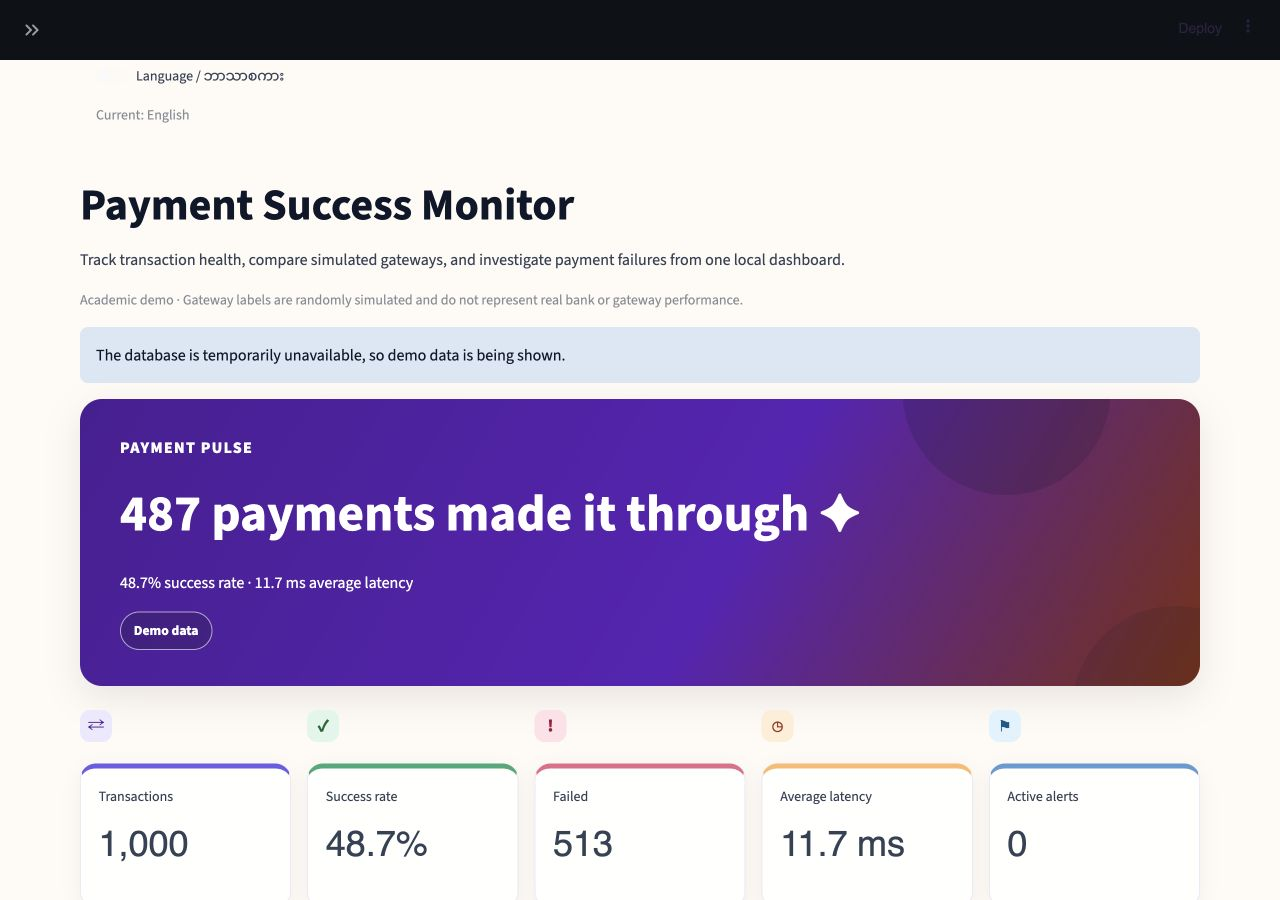
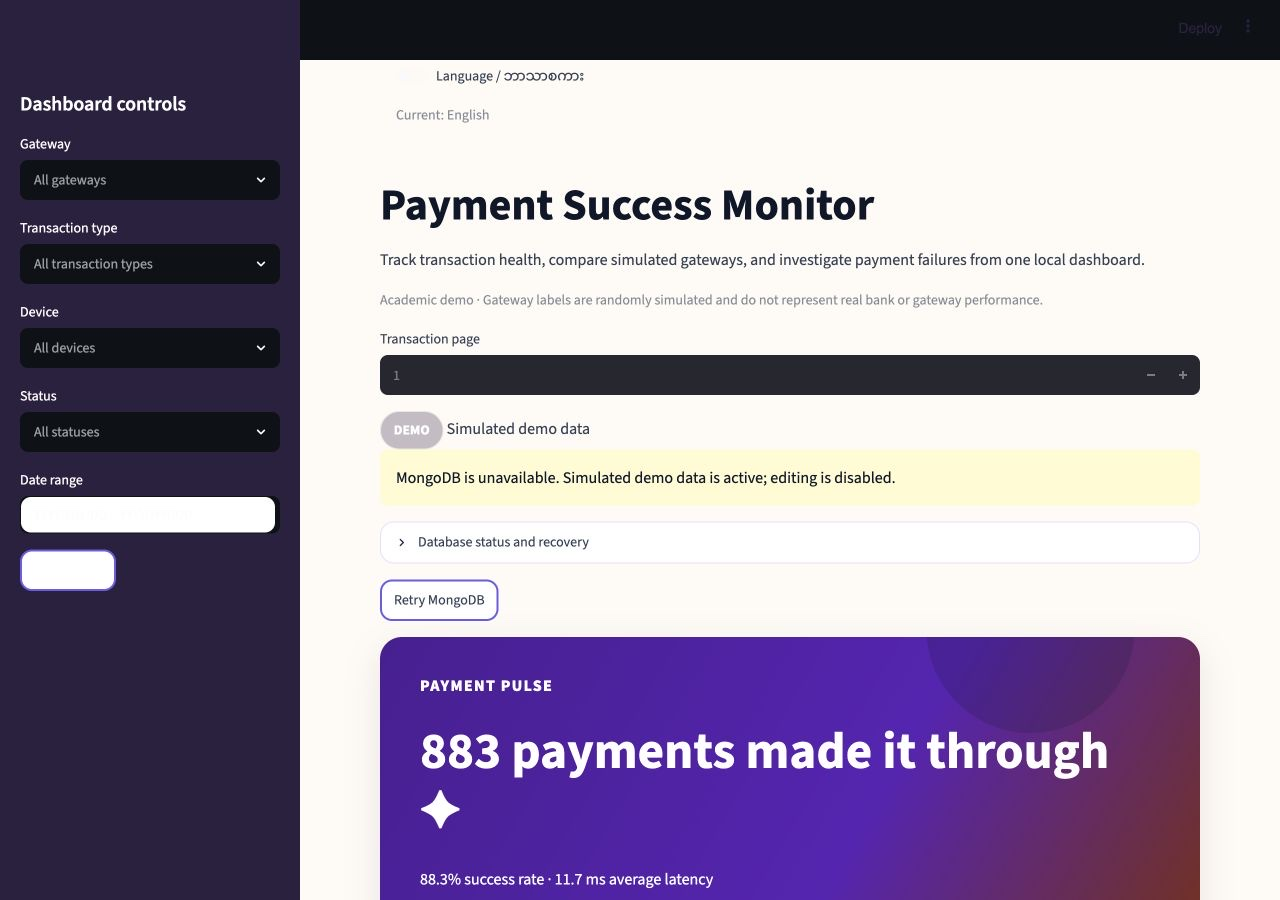
fix: complete dashboard hardening migration

diff --git a/tests/test_app.py b/tests/test_app.py
@@ -467,6 +467,40 @@ def _track_renderers(
 
 
 @pytest.mark.integration
+def test_pagination_widget_does_not_override_session_state(
+    monkeypatch: MonkeyPatch,
+    dashboard_state: DashboardState,
+) -> None:
+    """Pagination state must not compete with an explicit widget default."""
+    number_inputs: list[dict[str, object]] = []
+    _patch_render_app_shell(monkeypatch, dashboard_state)
+    monkeypatch.setattr(
+        app_module.st,
+        "number_input",
+        lambda *_, **kwargs: number_inputs.append(kwargs) or 1,
+    )
+    for renderer in (
+        "render_story_hero",
+        "render_kpis",
+        "render_gateway_health",
+        "render_gateway_performance",
+        "render_success_trend",
+        "render_failure_analysis",
+        "render_ai_operations_brief",
+        "render_recent_transactions",
+        "render_interpretation_guide",
+    ):
+        monkeypatch.setattr(app_module, renderer, lambda *_, **__: None)
+    monkeypatch.setattr(app_module, "render_admin_panel", lambda *_, **__: False)
+
+    app_module.render_app()
+
+    assert len(number_inputs) == 1
+    assert number_inputs[0]["key"] == "transaction_page"
+    assert "value" not in number_inputs[0]
+
+
+@pytest.mark.integration
 def test_story_first_composition_and_admin_rerun(
     monkeypatch: MonkeyPatch,
     dashboard_state: DashboardState,

diff --git a/tests/test_smoke_dashboard.py b/tests/test_smoke_dashboard.py
@@ -45,6 +45,8 @@ class _Locator:
     def wait_for(self, *, state: str, timeout: int) -> None:
         assert state == "visible"
         assert timeout > 0
+        if len(self.elements) > 1:
+            raise RuntimeError("strict mode violation")
         for item in self.elements:
             if item.visible_after_wait:
                 item.visible = True
@@ -180,6 +182,20 @@ def test_browser_smoke_rejects_missing_source_badge() -> None:
 
     with pytest.raises(module.SmokeCheckError, match="source badge"):
         _run(module, _Page(source_badge=[]))
+
+
+@pytest.mark.integration
+def test_browser_smoke_accepts_multiple_visible_source_badges() -> None:
+    """Repeated responsive badges must not trigger Playwright strict-mode failures."""
+    module = _load_smoke_module()
+    page = _Page(
+        source_badge=[
+            _Element("DEMO Simulated demo data"),
+            _Element("DEMO Simulated demo data"),
+        ]
+    )
+
+    _run(module, page)
 
 
 @pytest.mark.integration

diff --git a/scripts/smoke_dashboard.py b/scripts/smoke_dashboard.py
@@ -40,11 +40,12 @@ def run_dashboard_smoke(
                 )
 
             source_badge = page.locator(SOURCE_BADGE_SELECTOR)
+            visible_source_badge = source_badge.first
             try:
-                source_badge.wait_for(state="visible", timeout=TIMEOUT_MS)
+                visible_source_badge.wait_for(state="visible", timeout=TIMEOUT_MS)
             except Exception as exc:
                 raise SmokeCheckError("Dashboard source badge is not visible") from exc
-            if source_badge.count() == 0 or not source_badge.first.is_visible():
+            if not visible_source_badge.is_visible():
                 raise SmokeCheckError("Dashboard source badge is not visible")
 
             metric_labels = page.locator(METRIC_LABEL_SELECTOR)

diff --git a/payment_dashboard/app.py b/payment_dashboard/app.py
@@ -529,7 +529,6 @@ def render_app() -> None:
     st.number_input(
         translate("pagination.page", language),
         min_value=1,
-        value=page_number,
         step=1,
         key="transaction_page",
         disabled=True,
